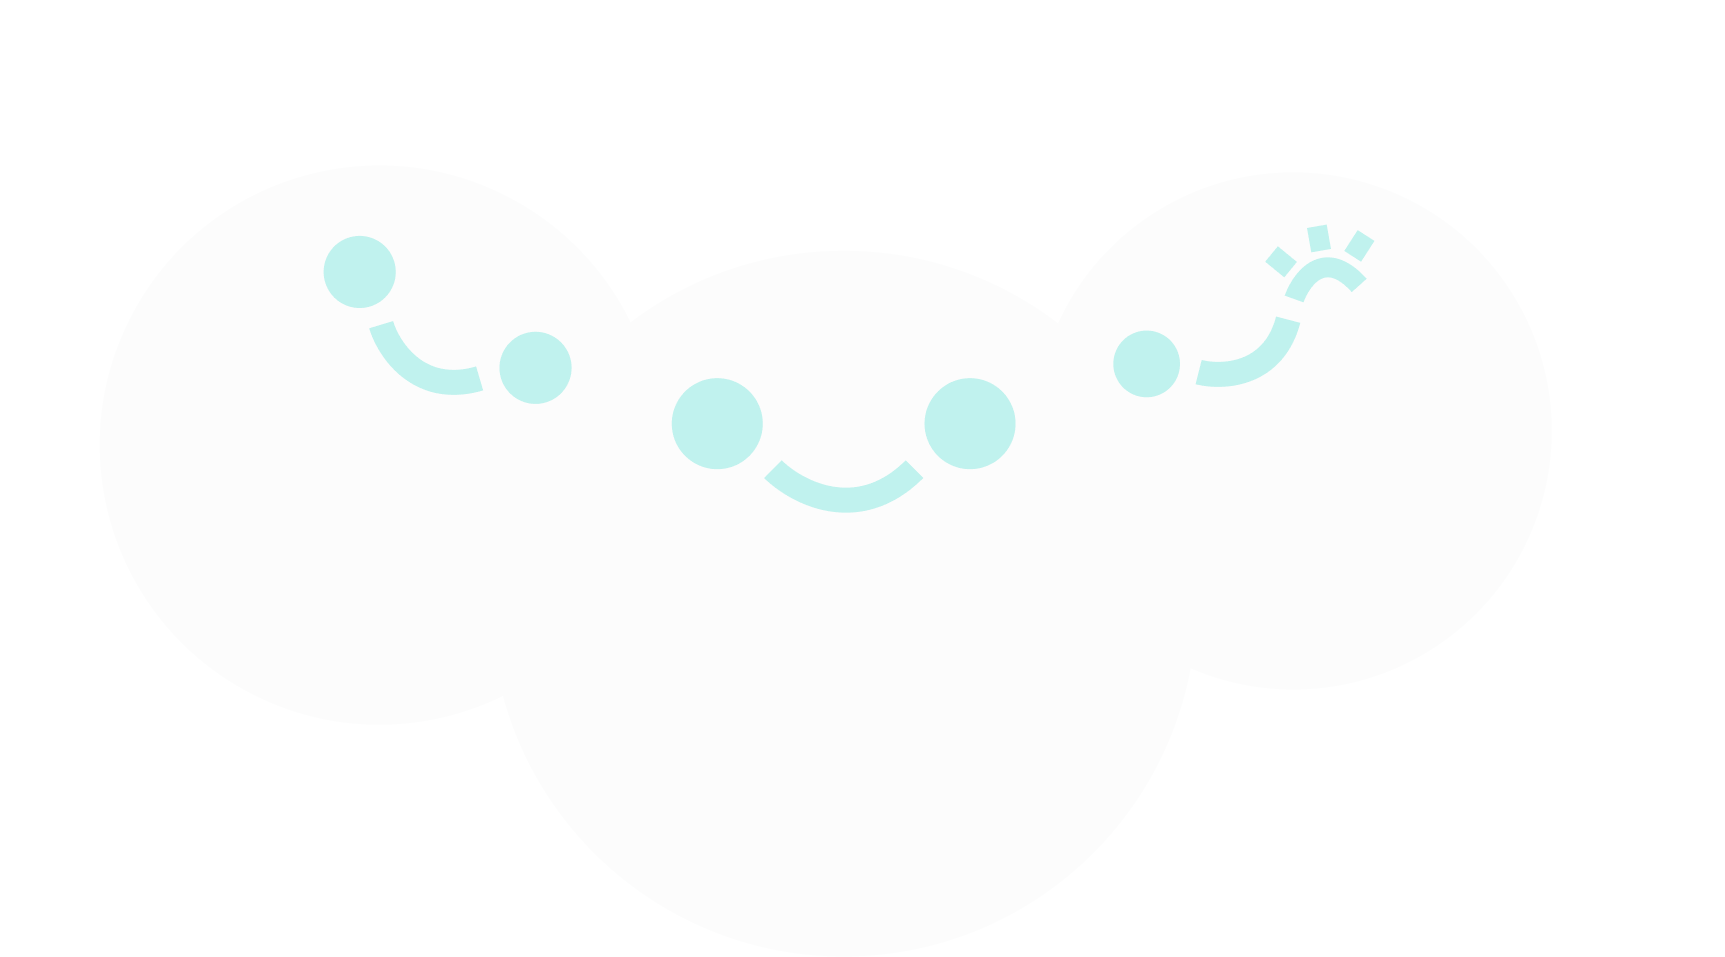
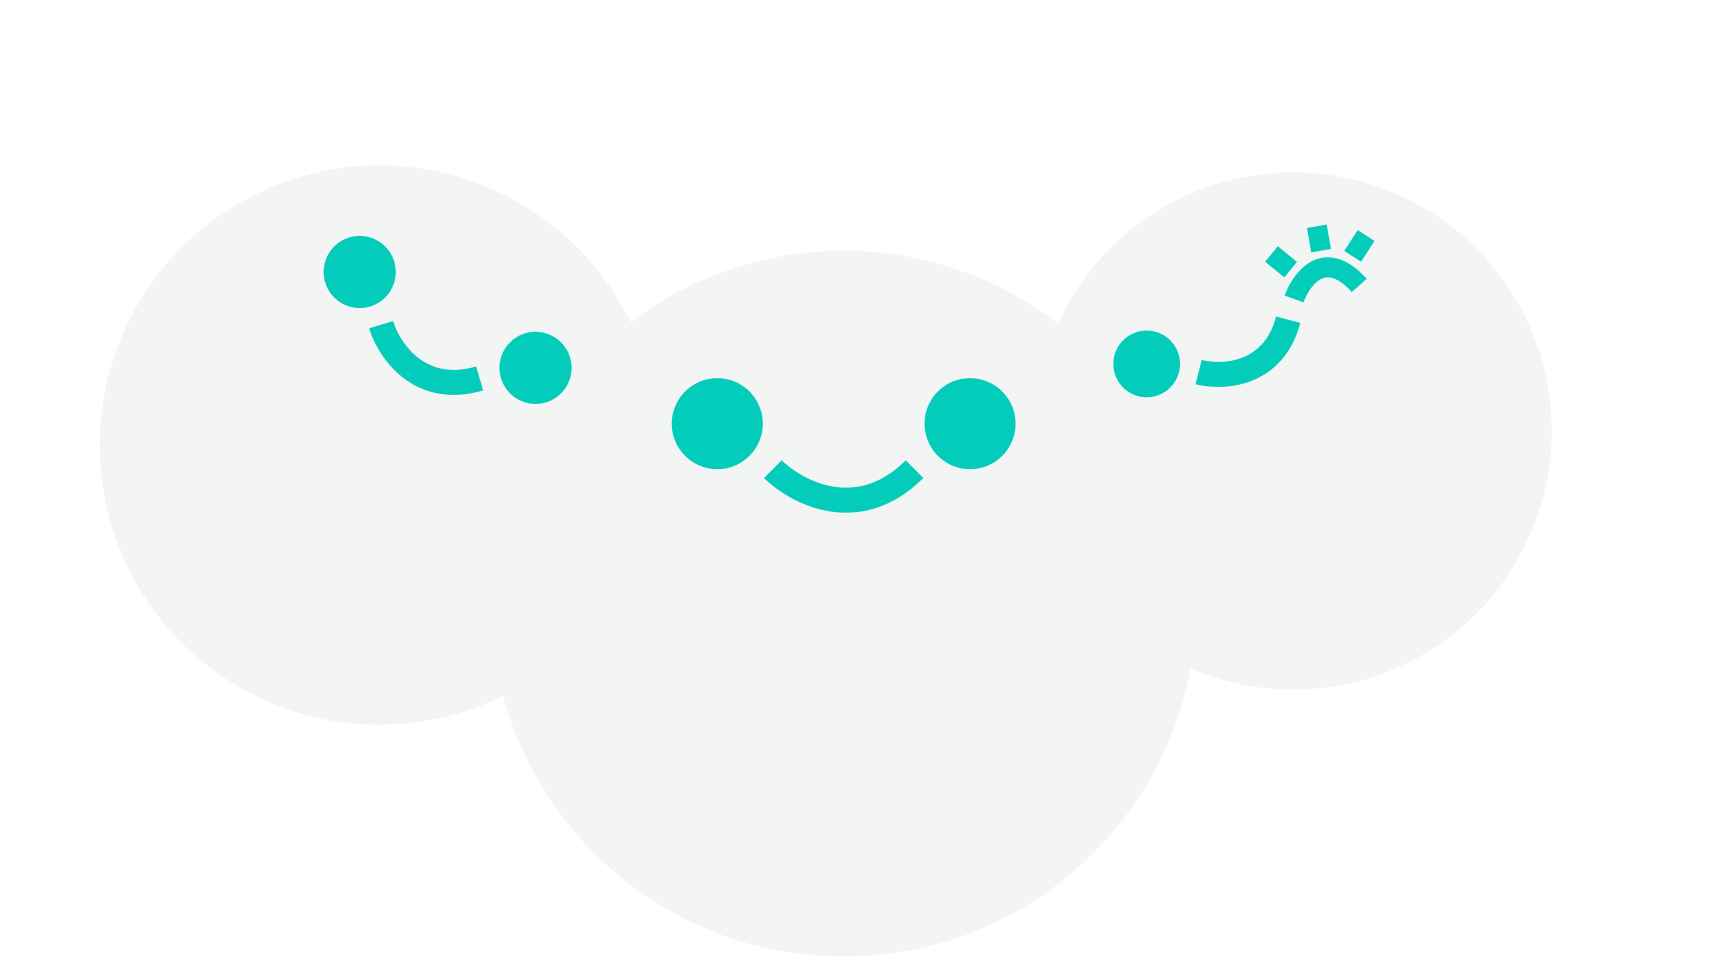
cleaned out old mixin in typography scss. max-width has been applied to to the login and signup components. unless your name is argentinasaurus@jurassicparkdinosaurs.com then its not neccessary to have containers that long. cuties image has be uploaded again. I want to change the whole color scheme 

Changed region(s): [[0.3687, 0.3939, 0.6145, 0.5455], [0.1843, 0.2424, 0.338, 0.4242], [0.6452, 0.2424, 0.7988, 0.4242]]

diff --git a/src/Components/Styles/_typography.scss b/src/Components/Styles/_typography.scss
@@ -1,12 +1,5 @@
 // variables/mixins file path "importing your global styles."
 @import "../Styles/_variables.scss";
-//////////////////Login/Signup Form bckgrndIMG
-@mixin modelBackIMG {
-    background-image: url("../../img/background/Cutie-Trio-Bckgrnd.png");
-    background-repeat: no-repeat;
-    background-size: 100%;
-    background-position: 50% 50%;
-}
 
 //////////////////signup/login link
 a {

diff --git a/src/Components/Login-SignUp/Login.scss b/src/Components/Login-SignUp/Login.scss
@@ -6,6 +6,7 @@
     flex-direction: column;
     justify-content: center;
     align-items: center;
+    max-width: 800px;
     width: 100%;
     height: 100%;
     padding: 20px;

diff --git a/src/Components/Login-SignUp/SignUp.scss b/src/Components/Login-SignUp/SignUp.scss
@@ -5,6 +5,7 @@
     flex-direction: column;
     justify-content: center;
     align-items: center;
+    max-width: 800px;
     width: 100%;
     height: 100%;
     padding: 20px;
